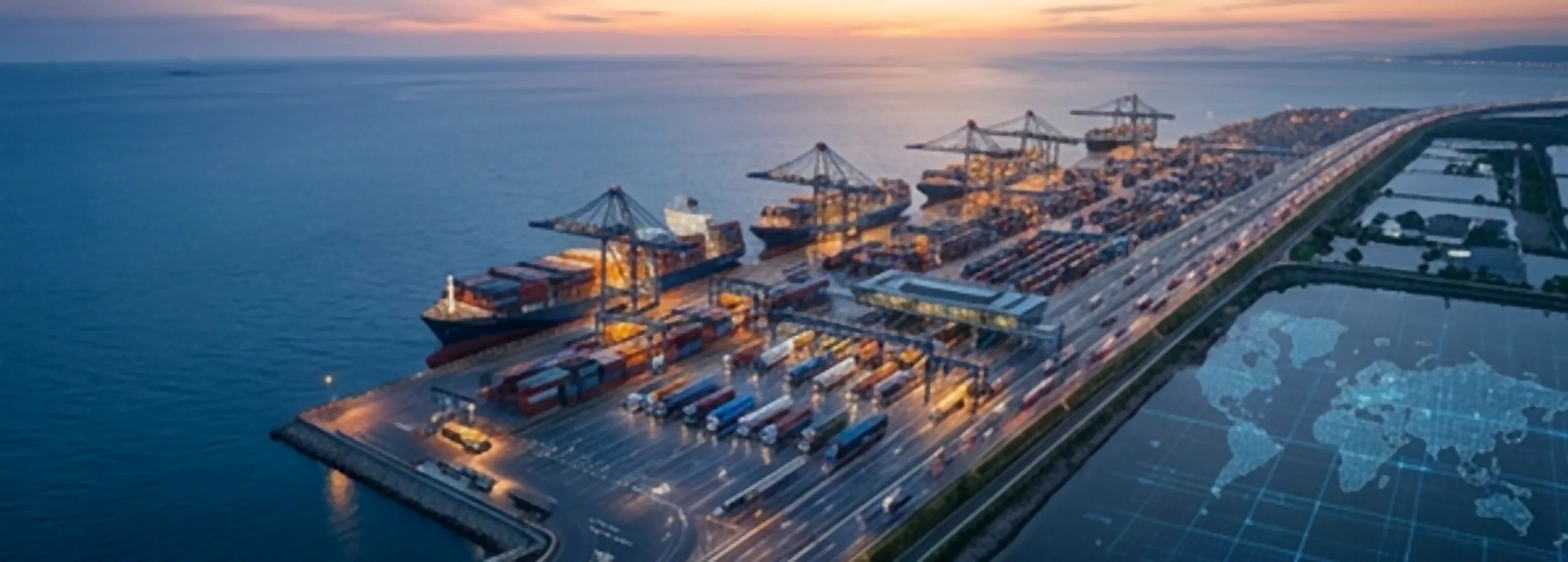
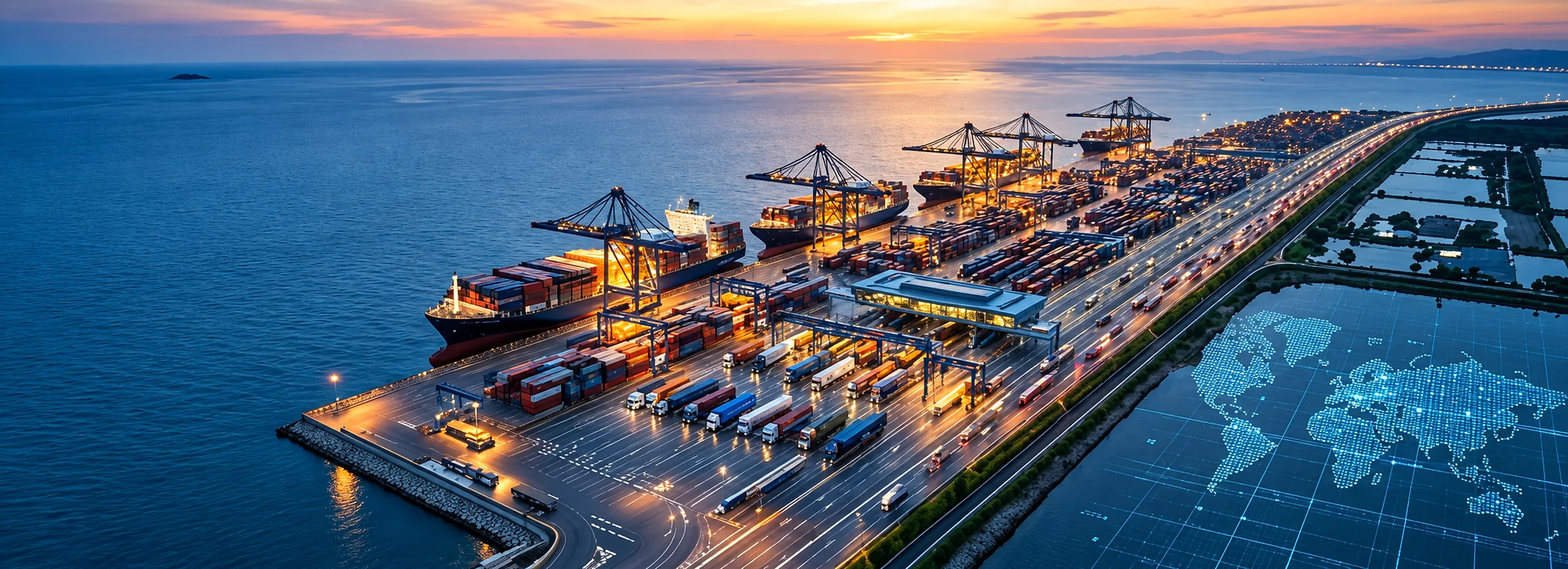
Novo fundo do login e símbolo de QR vinculado ao lado do número do container
1) Fundo da tela de login
- web/src/assets/fundo-login.webp substituído pela imagem nova do porto
  ao entardecer (2080×756 original, ampliada para 2560 px com Lanczos e
  realce leve, WebP q82). Mesmo arquivo/CSS de antes, então também vale
  nas páginas públicas "Enviar posição" e "Criar nova senha".

2) Símbolo de QR code quando o container tem etiqueta VINCULADA
- Backend: containerView.CONTAGEM_QR (_count de etiquetas com status
  VINCULADA) entra no include da lista de containers (INCLUDE_BASICO,
  também usado pela ficha) e do painel (Home). montarContainer devolve
  qrVinculado (pela contagem ou, na ficha, pela lista de etiquetas) e
  remove o _count da resposta; o painel repassa qrVinculado em cada item.
- Frontend: novo components/MarcaQr.vue (SVG de QR com 3 marcadores de
  canto, tamanho em "em" para acompanhar a fonte do texto, cor primária,
  title/aria-label "Etiqueta QR vinculada"), antes do número em:
  TileContainer (Home), ListaContainersLateral (Grid), Containers.vue
  (Tabela) e cabeçalho da FichaContainer.
- Ficha: h1 do número em flex/nowrap e .identificacao com
  min-width: min-content — sem isso o número com o símbolo passava por
  baixo do botão "Registrar…"; agora os botões é que quebram de linha.

Testes: asserções de qrVinculado na lista, no painel e na ficha (80/80).
Navegador na demo: fundo carregado em 1920/1366/celular; símbolo só nos
9 de 12 containers com QR na Home, Grid e Tabela; ícone ~0,95× a altura
[…]

diff --git a/web/src/pages/FichaContainer.vue b/web/src/pages/FichaContainer.vue
@@ -15,6 +15,7 @@ import ReconhecerAlerta from "../components/ReconhecerAlerta.vue";
 import ListaContainersLateral from "../components/ListaContainersLateral.vue";
 import Icone from "../components/Icone.vue";
 import NovoContainer from "../components/NovoContainer.vue";
+import MarcaQr from "../components/MarcaQr.vue";
 import imagemContainer from "../assets/container.png";
 
 // Sem id (/containers no modelo Grid): em tela larga abre o primeiro da lista; em tela estreita
@@ -367,7 +368,7 @@ function reconhecido() {
             <img class="ilustracao" :src="imagemContainer" width="100" height="49" alt="" />
             <div class="identificacao">
               <div class="linha" style="gap: 10px; flex-wrap: wrap">
-                <h1 class="numero">{{ c.numero }}</h1>
+                <h1 class="numero"><MarcaQr v-if="c.qrVinculado" tamanho="0.85em" />{{ c.numero }}</h1>
                 <span class="chip azul chip-grande">{{ rotuloEtapa(c, c.status) }}</span>
                 <span class="chip chip-grande">{{ ROTULO_TIPO[c.tipo] }}</span>
               </div>
@@ -955,8 +956,8 @@ function reconhecido() {
 .cabecalho { display: flex; flex-direction: column; gap: 14px; padding-bottom: 0; }
 .cab-linha { display: flex; gap: 16px; align-items: flex-start; }
 .ilustracao { flex-shrink: 0; margin-top: 2px; width: 100px; height: auto; }
-.identificacao { flex: 1; min-width: 0; }
-.numero { font-size: 28px; font-weight: 800; letter-spacing: .01em; margin: 0; }
+.identificacao { flex: 1; min-width: min-content; }
+.numero { font-size: 28px; font-weight: 800; letter-spacing: .01em; margin: 0; display: flex; align-items: center; gap: .3em; white-space: nowrap; }
 .chip-grande { font-size: 13px; padding: 4px 12px; }
 .rota-cab { font-size: 17px; color: var(--texto-2); margin-top: 4px; }
 .acoes { display: flex; gap: 8px; align-items: center; flex-wrap: wrap; justify-content: flex-end; }

diff --git a/src/lib/containerView.js b/src/lib/containerView.js
@@ -28,10 +28,13 @@ export function serializarLeitura(l) {
 
 // leiturasAsc: leituras do container da mais antiga para a mais recente.
 // ctxPrevisao: contexto de rota deste container (previsao.montarContextos); sem ele, sem previsão.
+// Conta só as etiquetas QR ligadas (VINCULADA) — as listas mostram o ícone de QR vinculado.
+export const CONTAGEM_QR = { _count: { select: { etiquetas: { where: { status: "VINCULADA" } } } } };
+
 export function montarContainer(c, leiturasAsc, agora, config, ctxPrevisao = null) {
   const previsao = ctxPrevisao ? estimarCiclo(c, ctxPrevisao, agora, configRodagem(config)) : null;
   const situacao = calcularSituacao(c, leiturasAsc, agora, config.intervaloLeituraMinutos, previsao, config.atrasoColetaCriticoHoras);
-  const { leituras: _l, ...resto } = c;
+  const { leituras: _l, _count, ...resto } = c;
   return {
     ...decimaisParaNumero(resto),
     reefer: ehReefer(c.tipo),
@@ -43,6 +46,8 @@ export function montarContainer(c, leiturasAsc, agora, config, ctxPrevisao = nul
     portoEntrega: c.portoEntrega ? decimaisParaNumero(c.portoEntrega, CAMPOS_LOCAL) : c.portoEntrega,
     // Nome das etapas conforme o tipo dos locais (ex.: COLETADO → "Coleta ferroviária").
     rotulosEtapa: rotulosDasEtapas(c),
+    // Tem etiqueta QR ligada agora (consulta com CONTAGEM_QR, ou a lista de etiquetas da ficha).
+    qrVinculado: _count ? _count.etiquetas > 0 : Array.isArray(c.etiquetas) ? c.etiquetas.some((e) => e.status === "VINCULADA") : false,
     // Configurações → Geral: tolerância do "no prazo" na aba Etapas (planejado × realizado).
     toleranciaPlanejadoMinutos: config.toleranciaPlanejadoMinutos,
     situacao,

diff --git a/src/routes/painel.js b/src/routes/painel.js
@@ -2,7 +2,7 @@ import { Router } from "express";
 import { prisma } from "../lib/prisma.js";
 import { asyncHandler } from "../lib/asyncHandler.js";
 import { lerConfiguracao } from "../lib/configuracao.js";
-import { montarContainer } from "../lib/containerView.js";
+import { montarContainer, CONTAGEM_QR } from "../lib/containerView.js";
 import { SELECT_LOCAIS_ETAPAS } from "../lib/tiposLocal.js";
 import { montarContextos } from "../lib/previsao.js";
 import { STATUS_ENCERRADOS } from "../lib/prazos.js";
@@ -19,7 +19,7 @@ painelRouter.get("/", asyncHandler(async (_req, res) => {
   const [containers, grupos, alertasAbertos, config] = await Promise.all([
     prisma.container.findMany({
       where: { status: { notIn: STATUS_ENCERRADOS } },
-      include: { grupo: { include: { regiao: true } }, armador: true, produto: true, ...SELECT_LOCAIS_ETAPAS, leituras: { orderBy: { lidaEm: "desc" }, take: 50 } },
+      include: { grupo: { include: { regiao: true } }, armador: true, produto: true, ...SELECT_LOCAIS_ETAPAS, ...CONTAGEM_QR, leituras: { orderBy: { lidaEm: "desc" }, take: 50 } },
       orderBy: [{ chegadaFabricaEm: "asc" }, { criadoEm: "asc" }],
     }),
     prisma.grupoOperacao.findMany({
@@ -85,6 +85,7 @@ painelRouter.get("/", asyncHandler(async (_req, res) => {
     g.containers.push({
       id: c.id,
       numero: c.numero,
+      qrVinculado: c.qrVinculado,
       tipo: c.tipo,
       reefer: c.reefer,
       status: c.status,

diff --git a/web/src/pages/Containers.vue b/web/src/pages/Containers.vue
@@ -5,6 +5,7 @@ import { api } from "../api.js";
 import { useAuthStore } from "../stores/auth.js";
 import { ROTULO_STATUS, ROTULO_TIPO, FLUXO, rotuloEtapa, fmtHoras, fmtTemp, fmtMoeda, fmtDataHora, fmtFolga } from "../formato.js";
 import NovoContainer from "../components/NovoContainer.vue";
+import MarcaQr from "../components/MarcaQr.vue";
 import ThOrdenavel from "../components/ThOrdenavel.vue";
 import { useOrdenacao } from "../composables/useOrdenacao.js";
 import { passaFiltroContainers } from "../filtroContainers.js";
@@ -121,7 +122,7 @@ function textoDemurrage(d) {
       <tbody>
         <tr v-for="c in linhas" :key="c.id" class="clicavel" @click="router.push(`/containers/${c.id}`)">
           <td><span class="ponto" :class="c.semaforo" :title="c.semaforo"></span></td>
-          <td class="mono negrito">{{ c.numero }}<div v-if="c.booking" class="mudo pequeno">BK {{ c.booking }}</div></td>
+          <td class="mono negrito" style="white-space: nowrap"><MarcaQr v-if="c.qrVinculado" /> {{ c.numero }}<div v-if="c.booking" class="mudo pequeno">BK {{ c.booking }}</div></td>
           <td>{{ ROTULO_TIPO[c.tipo] }}</td>
           <td>{{ c.grupo.cliente }} / {{ c.grupo.fabrica }}</td>
           <td>{{ c.armador.nome }}</td>

diff --git a/web/src/components/MarcaQr.vue b/web/src/components/MarcaQr.vue
@@ -1,0 +1,24 @@
+<script setup>
+// Símbolo de QR code ao lado do número do container: indica que há etiqueta QR vinculada.
+// Tamanho em "em" = acompanha a fonte do texto ao lado.
+defineProps({ tamanho: { type: String, default: "0.95em" } });
+</script>
+
+<template>
+  <svg
+    class="marca-qr" :width="tamanho" :height="tamanho" viewBox="0 0 21 21" fill="currentColor" shape-rendering="crispEdges"
+    role="img" aria-label="QR code vinculado"
+  >
+    <title>Etiqueta QR vinculada</title>
+    <!-- 3 marcadores de canto (anel 7×7 + miolo 3×3) -->
+    <path fill-rule="evenodd" d="M0 0h7v7H0zM1 1v5h5V1zM2 2h3v3H2z" />
+    <path fill-rule="evenodd" d="M14 0h7v7h-7zM15 1v5h5V1zM16 2h3v3h-3z" />
+    <path fill-rule="evenodd" d="M0 14h7v7H0zM1 15v5h5v-5zM2 16h3v3H2z" />
+    <!-- módulos de dados -->
+    <path d="M9 0h2v2H9zM8 3h2v2H8zM11 4h2v2h-2zM9 7h3v2H9zM0 9h2v2H0zM3 8h3v2H3zM4 11h2v2H4zM8 10h2v2H8zM11 10h3v2h-3zM15 8h2v2h-2zM18 9h3v2h-3zM16 12h2v2h-2zM19 13h2v3h-2zM9 13h2v3H9zM12 14h3v2h-3zM8 17h2v2H8zM11 18h3v3h-3zM15 17h2v2h-2zM18 18h3v3h-3zM16 20h2v1h-2z" />
+  </svg>
+</template>
+
+<style scoped>
+.marca-qr { flex-shrink: 0; color: var(--primaria); vertical-align: -0.12em; }
+</style>

diff --git a/src/api.test.js b/src/api.test.js
@@ -1159,6 +1159,13 @@ test("rastreamento por SMS: QR → Container → Usuário → Celular; troca de 
   assert.equal(db.rastreioResponsavelId, u1.body.id);
   assert.ok(smsPara("+5511987654321").some((s) => s.texto.includes("RSTU5000005") && s.texto.includes("vinculado")));
   const t0 = db.rastreioUltimoEnvioEm.getTime();
+  // Listas marcam o container com QR vinculado (ícone na Home, Grid e Tabela).
+  const naLista = (await agentes.ADMIN.get("/api/containers")).body;
+  assert.equal(naLista.find((x) => x.id === c.body.id).qrVinculado, true);
+  assert.ok(naLista.some((x) => x.qrVinculado === false), "sem etiqueta = false");
+  const noPainel = (await agentes.ADMIN.get("/api/painel")).body.grupos.flatMap((g) => g.containers);
+  assert.equal(noPainel.find((x) => x.id === c.body.id).qrVinculado, true);
+  assert.equal((await agentes.ADMIN.get(`/api/containers/${c.body.id}`)).body.qrVinculado, true);
 
   // 2) Agendador: antes do intervalo nada; depois de 30 min um pedido — e só um, mesmo rodando 2x.
   const antes = smsPara("+5511987654321").length;

diff --git a/src/routes/containers.js b/src/routes/containers.js
@@ -5,7 +5,7 @@ import { requirePermissao, tem } from "../lib/permissoes.js";
 import { registrarLog } from "../lib/auditoria.js";
 import { lerConfiguracao } from "../lib/configuracao.js";
 import { sincronizarAlertas } from "../lib/alertas.js";
-import { montarContainer, serializarLeitura } from "../lib/containerView.js";
+import { montarContainer, serializarLeitura, CONTAGEM_QR } from "../lib/containerView.js";
 import { validarNumeroContainer } from "../lib/iso6346.js";
 import { ehReefer, STATUS_ENCERRADOS } from "../lib/prazos.js";
 import { texto, inteiro, decimal, dataHora, id as validarId, umDe } from "../lib/validacao.js";
@@ -48,6 +48,7 @@ const SELECT_LOCAL = { select: { id: true, nome: true, tipo: SELECT_TIPO, cidade
 const INCLUDE_BASICO = {
   grupo: true, armador: true, produto: true,
   portoRetirada: SELECT_LOCAL, localCarregamento: SELECT_LOCAL, portoEntrega: SELECT_LOCAL,
+  ...CONTAGEM_QR,
 };
 
 // Valida um local do trajeto: existe, está ativo (ou já era o atual) e o tipo tem a função certa.

diff --git a/web/src/components/TileContainer.vue b/web/src/components/TileContainer.vue
@@ -2,6 +2,7 @@
 import { computed } from "vue";
 import { useRouter } from "vue-router";
 import { useAuthStore } from "../stores/auth.js";
+import MarcaQr from "./MarcaQr.vue";
 import { rotuloEtapa, ROTULO_TIPO, fmtHoras, fmtTemp, fmtMoeda, fmtFolga, fmtDataHora } from "../formato.js";
 
 const props = defineProps({ c: { type: Object, required: true } });
@@ -22,7 +23,7 @@ const textoDemurrage = computed(() => {
 <template>
   <div class="tile" :class="[c.semaforo, { consulta: !abreFicha }]" @click="abrir">
     <div class="linha-entre">
-      <span class="num mono">{{ c.numero }}</span>
+      <span class="num mono"><MarcaQr v-if="c.qrVinculado" /> {{ c.numero }}</span>
       <span v-if="c.alertas.CRITICO" class="chip vermelho" title="Alertas críticos abertos">⚠ {{ c.alertas.CRITICO }}</span>
       <span v-else-if="c.alertas.ATENCAO" class="chip amarelo" title="Alertas de atenção abertos">{{ c.alertas.ATENCAO }}</span>
     </div>

diff --git a/web/src/components/ListaContainersLateral.vue b/web/src/components/ListaContainersLateral.vue
@@ -8,6 +8,7 @@ import { api } from "../api.js";
 import { FLUXO, ROTULO_STATUS, ROTULO_TIPO, rotuloEtapa } from "../formato.js";
 import { filtroContainers, passaFiltroContainers } from "../filtroContainers.js";
 import Icone from "./Icone.vue";
+import MarcaQr from "./MarcaQr.vue";
 
 const props = defineProps({ selecionado: { type: [Number, String], default: null } });
 const emit = defineEmits(["carregada", "filtrada", "novo"]);
@@ -117,7 +118,7 @@ const abrir = (c) => router.push(`/containers/${c.id}`);
         <span class="linha-entre" style="gap: 8px">
           <span class="linha" style="gap: 8px; min-width: 0">
             <span class="ponto" :class="c.semaforo"></span>
-            <span class="numero">{{ c.numero }}</span>
+            <span class="numero"><MarcaQr v-if="c.qrVinculado" /> {{ c.numero }}</span>
           </span>
           <span class="chip azul">{{ rotuloEtapa(c, c.status) }}</span>
         </span>
